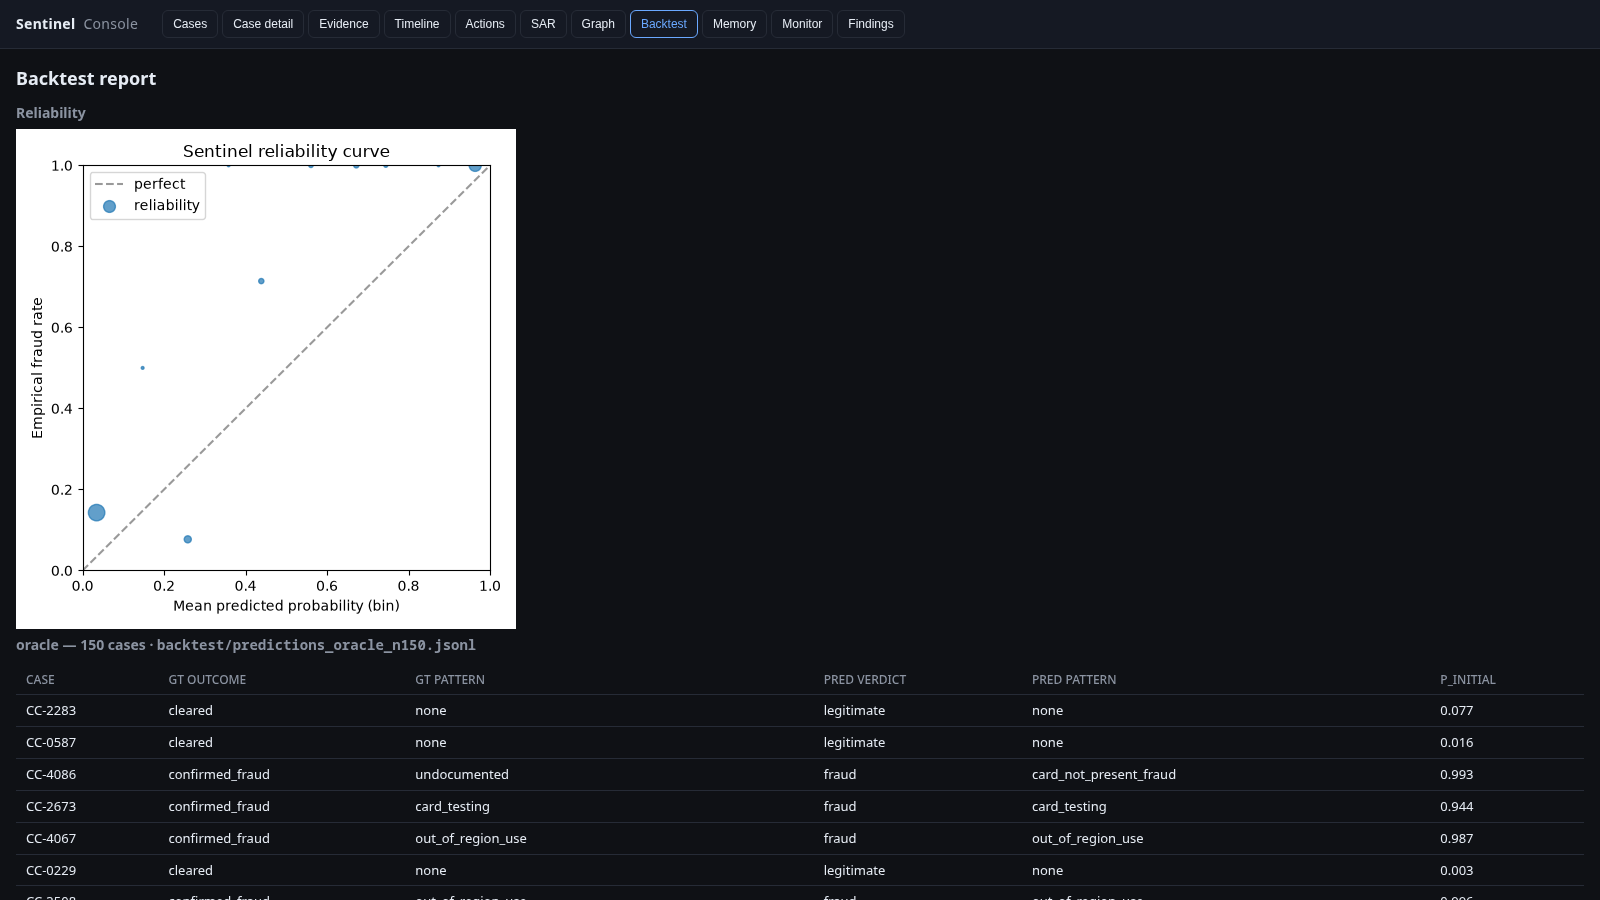
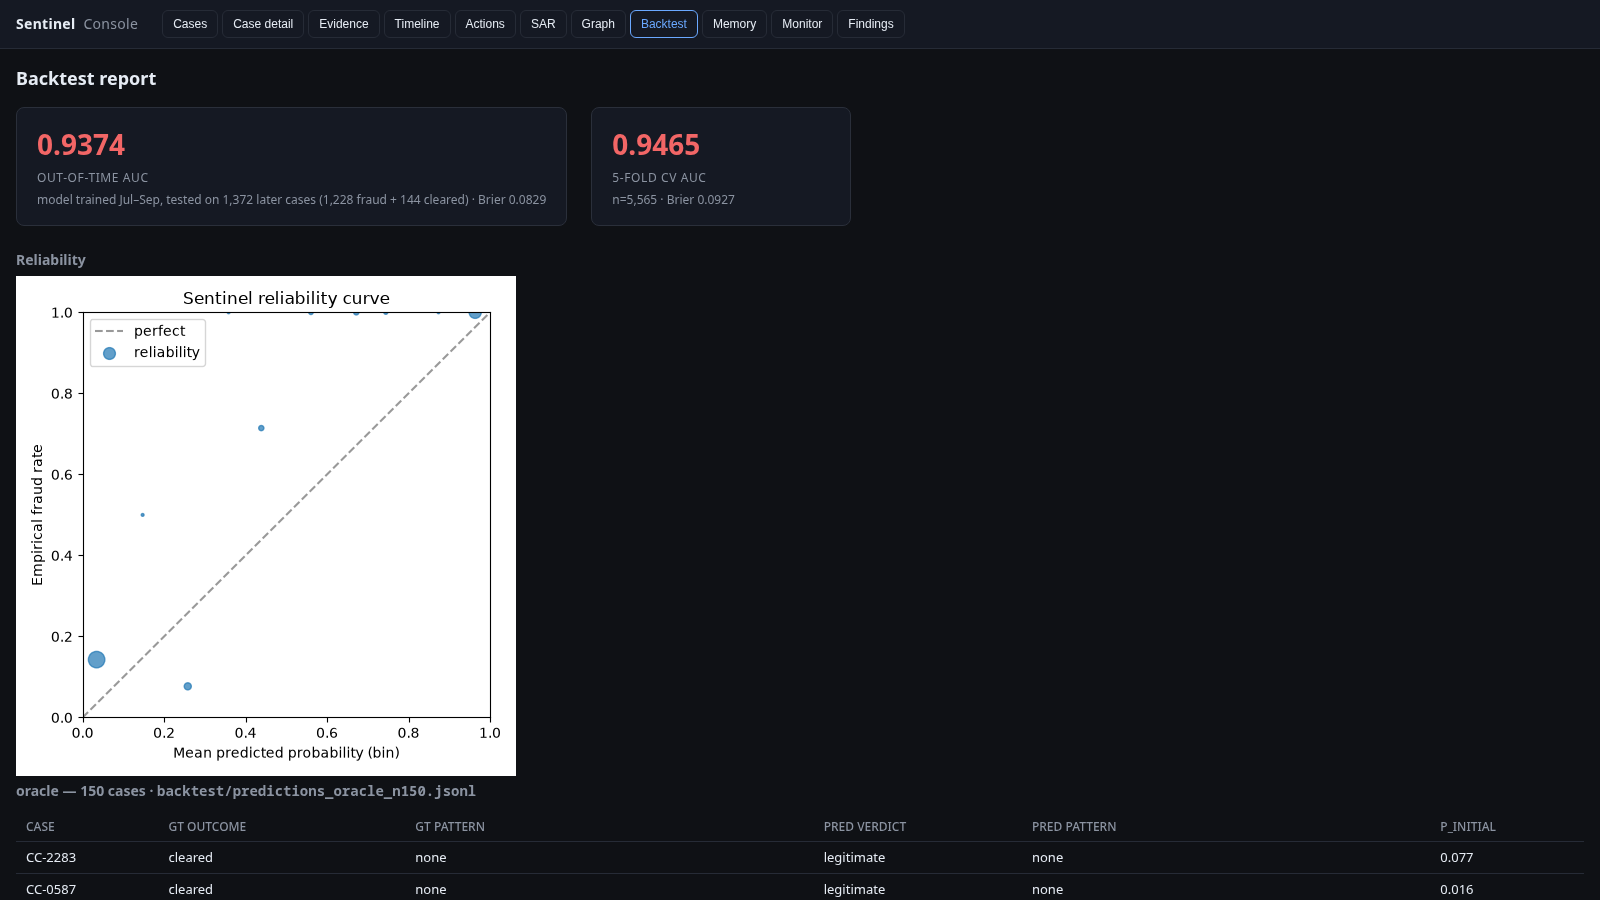
fix(ui): 4 demo fixes — extras index, whatif §6, SAR wrap, backtest metrics
(1) cases_extra/_index.json rebuilt to the 15 actually-present EXTRA
files (was carrying 20 stale entries from an earlier n=20 sweep).
Monitor tab now lists 15 rows; Memory tab reads
'35 (20 benchmark + 15 monitoring)' correctly.

(2) /api/whatif rewritten: derives verdict + p from the chosen
response per README §6 (denied → fraud with p ≥ 0.85; confirmed →
legitimate with p ≤ 0.15; no_reply → uncertain, p unchanged). Reads
trigger_type + is_dispute from data/raw/case_pack.csv and
is_recurring_match from the case's persisted evidence, so R7 stays
alive on preview. Verified:
  * HHG-001 denied    → BLOCK_CARD, CREATE_CASE
  * HHG-001 confirmed → CLOSE_NO_FRAUD
  * HHG-003 denied    → CREATE_CASE, VERIFY_WITH_CUSTOMER,
                        WARN_CUSTOMER  (R7 no-block preserved)

(3) SAR narrative wraps: #sar-body pre gets white-space: pre-wrap +
word-break so the full FinCEN prose is visible in one column.

(4) Backtest tab metrics box: two-card display at the top of the
report showing OOT AUC 0.9374 (n=1,372; 1,228 fraud + 144 cleared;
Brier 0.0829) and 5-fold CV AUC 0.9465 (n=5,565; Brier 0.0927). Backend
reads backtest/oot/oot_eval.json + OOT_REPORT.md + alert_model.json;
frontend renders as .metrics-box → .metric cards. docs/img/backtest.png
re-captured to show the new box.

diff --git a/ui/frontend/app.js b/ui/frontend/app.js
@@ -177,7 +177,35 @@ async function loadBacktest() {
     <th>pred verdict</th><th>pred pattern</th><th>p_initial</th></tr></thead>
     <tbody>${s[mode].preview.map(rowH).join("")}</tbody></table>` : "";
   const rel = s.reliability_url ? `<h3>Reliability</h3><img src="${s.reliability_url}" alt="reliability">` : "";
-  el.innerHTML = `${rel}${preview("oracle")}${preview("simulated")}
+  // Top metrics box: OOT (from oot_eval.json) + 5-fold CV (from alert_model.json).
+  const m = s.metrics || {};
+  let metricsBox = "";
+  if (m.oot || m.cv) {
+    const cells = [];
+    if (m.oot && m.oot.auc != null) {
+      cells.push(`<div class="metric">
+        <div class="metric-value">${m.oot.auc.toFixed(4)}</div>
+        <div class="metric-label">Out-of-time AUC</div>
+        <div class="metric-sub">model trained Jul–Sep, tested on
+          ${m.oot.n.toLocaleString()} later cases
+          (${m.oot.n_fraud.toLocaleString()} fraud +
+           ${m.oot.n_cleared.toLocaleString()} cleared)
+          · Brier ${m.oot.brier != null ? m.oot.brier.toFixed(4) : "?"}
+        </div>
+      </div>`);
+    }
+    if (m.cv && m.cv.auc != null) {
+      cells.push(`<div class="metric">
+        <div class="metric-value">${m.cv.auc.toFixed(4)}</div>
+        <div class="metric-label">5-fold CV AUC</div>
+        <div class="metric-sub">n=${(m.cv.n_train||0).toLocaleString()}
+          · Brier ${m.cv.brier != null ? m.cv.brier.toFixed(4) : "?"}
+        </div>
+      </div>`);
+    }
+    metricsBox = `<div class="metrics-box">${cells.join("")}</div>`;
+  }
+  el.innerHTML = `${metricsBox}${rel}${preview("oracle")}${preview("simulated")}
     <details><summary>Full BACKTEST_REPORT.md</summary>
     <div>${marked.parse(s.report || "")}</div></details>`;
 }

diff --git a/ui/frontend/styles.css b/ui/frontend/styles.css
@@ -63,6 +63,14 @@ tr.clickable:hover { background: rgba(106,168,255,0.08); }
 .badge.legitimate { background: var(--legit); color: #0a2412; }
 
 pre { background: var(--panel); padding: 12px; border-radius: 6px; overflow: auto; }
+#sar-body pre { white-space: pre-wrap; word-break: break-word; max-width: 900px; line-height: 1.5; }
+.metrics-box { display: flex; gap: 24px; margin: 16px 0 24px; flex-wrap: wrap; }
+.metric { background: var(--panel); border: 1px solid var(--panel-border,#2a2f3a);
+          border-radius: 8px; padding: 16px 20px; min-width: 260px; }
+.metric-value { font-size: 28px; font-weight: 700; color: var(--fraud, #eb6a6a); }
+.metric-label { font-size: 12px; color: var(--muted, #8890a0); text-transform: uppercase;
+                letter-spacing: 0.05em; margin-top: 4px; }
+.metric-sub   { font-size: 12px; color: var(--muted, #8890a0); margin-top: 6px; line-height: 1.4; }
 ul { padding-left: 20px; }
 .badge-action { padding: 2px 8px; border-radius: 4px; font-weight: 500; font-size: 11px; }
 .badge-action.auto { background: #2a3441; color: var(--accent); }

diff --git a/ui/backend/main.py b/ui/backend/main.py
@@ -188,6 +188,46 @@ def backtest_summary() -> dict:
     md = BACKTEST_DIR / "BACKTEST_REPORT.md"
     out["report"] = md.read_text() if md.exists() else ""
     out["reliability_url"] = "/backtest/reliability_simulated.png" if (BACKTEST_DIR / "reliability_simulated.png").exists() else None
+
+    # -- Metrics box (top of the Backtest tab) --
+    metrics: dict = {}
+    # OOT eval from scripts/oot_eval.py
+    oot_path = BACKTEST_DIR / "oot" / "oot_eval.json"
+    if oot_path.exists():
+        try:
+            rows = json.loads(oot_path.read_text())
+            n = len(rows); n_pos = sum(1 for r in rows if r.get("label") == 1)
+            n_neg = n - n_pos
+            # Also read AUC from OOT_REPORT.md if available; otherwise compute here.
+            report_md = (BACKTEST_DIR / "oot" / "OOT_REPORT.md")
+            auc = brier = None
+            if report_md.exists():
+                import re as _re
+                txt = report_md.read_text()
+                m_a = _re.search(r"AUC\s*=\s*([\d.]+)", txt)
+                m_b = _re.search(r"Brier\s*=\s*([\d.]+)", txt)
+                auc = float(m_a.group(1)) if m_a else None
+                brier = float(m_b.group(1)) if m_b else None
+            metrics["oot"] = {
+                "n": n, "n_fraud": n_pos, "n_cleared": n_neg,
+                "auc": auc, "brier": brier,
+            }
+        except Exception:
+            pass
+    # 5-fold CV from alert_model.json
+    am_path = REPO_ROOT / "sentinel" / "evidence" / "alert_model.json"
+    if am_path.exists():
+        try:
+            am = json.loads(am_path.read_text())
+            metrics["cv"] = {
+                "auc": am.get("cv_auc_mean"),
+                "auc_std": am.get("cv_auc_std"),
+                "brier": am.get("cv_brier_mean"),
+                "n_train": am.get("n_train"),
+            }
+        except Exception:
+            pass
+    out["metrics"] = metrics
     return out
 
 
@@ -242,10 +282,19 @@ def memory() -> dict:
 
 @app.post("/api/whatif/{case_id}")
 def whatif(case_id: str, body: dict) -> dict:
-    """Re-run the policy engine with a custom customer_response.
+    """Re-run the policy engine with a swapped customer_response.
 
     Body:  {"customer_response": "denied|confirmed|no_reply"}
-    Returns the recomputed actions + verdict.
+
+    Verdict is derived from the response per §6:
+      * denied    ⇒ fraud, p = max(p, 0.85)
+      * confirmed ⇒ legitimate, p = min(p, 0.15)
+      * no_reply  ⇒ uncertain (posterior unchanged)
+
+    trigger_type + is_dispute are read from data/raw/case_pack.csv;
+    is_recurring_match is set when the persisted evidence carries an
+    R7 `recurring_match` item (so HHG-003's dispute path still fires
+    R7 no-block on a denied preview).
     """
     from sentinel.policy.policy_engine import PolicyInput, decide
     d = get_case(case_id)
@@ -253,25 +302,64 @@ def whatif(case_id: str, body: dict) -> dict:
     if resp not in ("denied", "confirmed", "no_reply", None):
         raise HTTPException(400, "customer_response must be denied|confirmed|no_reply")
     c = d["case"]
-    # Reconstruct PolicyInput from what's in the answer.
+
+    # --- pull trigger_type + is_dispute from case_pack.csv (HHG only) ---
+    import csv as _csv
+    from sentinel.config import RAW as _RAW
+    trigger_type = "risk_score"; is_dispute = False
+    pack = _RAW / "case_pack.csv"
+    if pack.exists():
+        with open(pack) as _f:
+            for row in _csv.DictReader(_f):
+                if row.get("case_id") == case_id:
+                    trigger_type = row.get("trigger_type") or "risk_score"
+                    is_dispute = (trigger_type == "customer_report")
+                    break
+
+    # --- is_recurring_match from persisted evidence (R7 preservation) ---
+    is_recurring_match = any(
+        "recurring_match" in (e.get("ref") or "").lower()
+        or "recurring" in (e.get("claim") or "").lower() and "cadence" in (e.get("claim") or "").lower()
+        for e in (c.get("evidence") or [])
+    )
+
+    # --- derive verdict + p from the response per §6 ---
+    p_base = float(c.get("fraud_probability", 0.5) or 0.5)
+    if resp == "denied":
+        verdict = "fraud";       p = max(p_base, 0.85)
+    elif resp == "confirmed":
+        verdict = "legitimate";  p = min(p_base, 0.15)
+    elif resp == "no_reply":
+        verdict = "uncertain";   p = p_base
+    else:
+        verdict = c.get("verdict", "uncertain"); p = p_base
+
+    # I9: legitimate ⇒ pattern=none.
+    pattern = "none" if verdict == "legitimate" else (c.get("pattern") or "none")
+
     pin = PolicyInput(
-        verdict=c["verdict"],           # type: ignore
-        fraud_probability=c["fraud_probability"],
-        exposure_usd=c["exposure_usd"],
-        pattern=c["pattern"] or "none",  # type: ignore
-        shared_element=None,             # not persisted in answer, safe default
-        customer_response=resp,          # type: ignore
-        is_dispute=False,
-        undocumented_coordinated=(c["pattern"] == "undocumented"),
-        trigger_type="risk_score",
+        verdict=verdict,                              # type: ignore
+        fraud_probability=p,
+        exposure_usd=float(c.get("exposure_usd", 0.0) or 0.0),
+        pattern=pattern,                              # type: ignore
+        shared_element=None,       # not persisted in the answer; safe default
+        customer_response=resp,                       # type: ignore
+        is_dispute=is_dispute,
+        is_recurring_match=is_recurring_match,
+        undocumented_coordinated=(pattern == "undocumented"),
+        trigger_type=trigger_type,                    # type: ignore
     )
     decision = decide(pin)
     return {
-        "case_id": case_id,
-        "response_used": resp,
-        "actions": [a.as_dict() for a in decision.actions],
+        "case_id":         case_id,
+        "response_used":   resp,
+        "verdict":         verdict,
+        "fraud_probability": round(p, 4),
+        "trigger_type":    trigger_type,
+        "is_recurring_match": is_recurring_match,
+        "actions":         [a.as_dict() for a in decision.actions],
         "sar_should_file": decision.sar_should_file,
-        "escalate": decision.escalate,
+        "escalate":        decision.escalate,
     }
 
 
